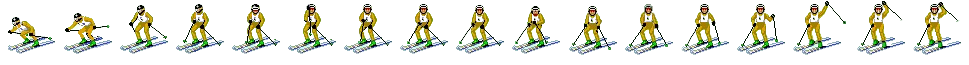
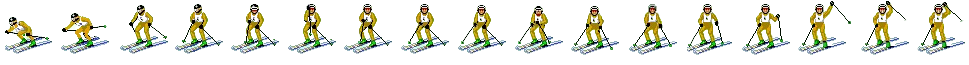
도착 애니메이션 구현

Changed region(s): [[0.4025, 0.0308, 1.0, 0.8308], [0.0, 0.2154, 0.1238, 0.8308], [0.1548, 0.0615, 0.3096, 0.8308]]

diff --git a/player.py b/player.py
@@ -12,6 +12,7 @@ from heart import Heart
 from gate import Gate
 from star import Star
 import gameover_mode
+import gameclear_mode
 
 
 # state event check
@@ -71,9 +72,10 @@ class Start:
         player.image.clip_composite_draw(int(player.frame)*100,0, 100, 103, 0,'h', player.x, player.y,75,75)
 
 class End:
-
     @staticmethod
     def enter(player, e):
+        player.image = load_image('finish_animation_sheet.png')
+        player.wait_time = get_time()
         pass
 
     @staticmethod
@@ -82,9 +84,15 @@ class End:
 
     @staticmethod
     def do(player):
-       pass
+        if(player.frame <16):
+            player.frame +=  FRAMES_PER_ACTION * ACTION_PER_TIME * game_framework.frame_time
+        if get_time() - player.wait_time > 4:
+            game_framework.change_mode(gameclear_mode)
+        pass
+
     @staticmethod
     def draw(player):
+        player.image.clip_composite_draw(int(player.frame) * 57, 0, 57, 65, 0, 'h', player.x, player.y, 100, 100)
         pass
 
 
@@ -119,6 +127,10 @@ class LeftSkiing:
         if(server.boost_start):
             player.state_machine.cur_state.exit(player, None)
             player.state_machine.cur_state = Boost
+            player.state_machine.cur_state.enter(player, None)
+        if(server.stop):
+            player.state_machine.cur_state.exit(player, None)
+            player.state_machine.cur_state = End
             player.state_machine.cur_state.enter(player, None)
         player.frame = (player.frame + FRAMES_PER_ACTION * ACTION_PER_TIME * game_framework.frame_time* server.level) % 7
 
@@ -159,6 +171,10 @@ class RightSkiing:
             player.state_machine.cur_state.exit(player, None)
             player.state_machine.cur_state = Boost
             player.state_machine.cur_state.enter(player, None)
+        if (server.stop):
+            player.state_machine.cur_state.exit(player, None)
+            player.state_machine.cur_state = End
+            player.state_machine.cur_state.enter(player, None)
 
         player.frame = (player.frame + FRAMES_PER_ACTION * ACTION_PER_TIME * game_framework.frame_time* server.level) % 7
     @staticmethod
@@ -184,6 +200,11 @@ class Boost:
     def do(player):
         player.x = 300
         player.frame = (player.frame + FRAMES_PER_ACTION * ACTION_PER_TIME * game_framework.frame_time * server.level * server.boost) % 7
+        if (server.stop):
+            player.state_machine.cur_state.exit(player, None)
+            player.state_machine.cur_state = End
+            player.state_machine.cur_state.enter(player, None)
+
         if get_time() - player.wait_time > 5:
             player.state_machine.handle_event(('TIME_OUT', 0))
         pass
